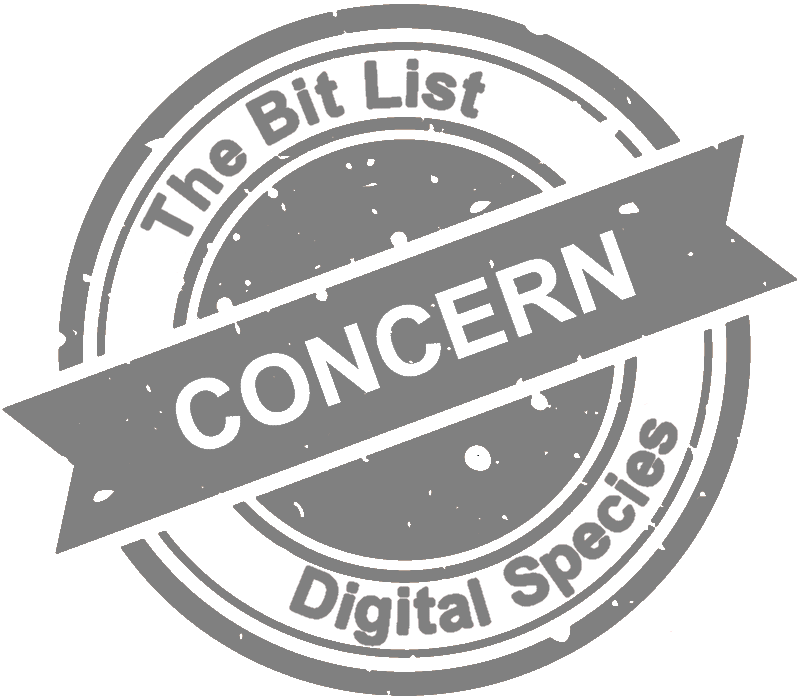
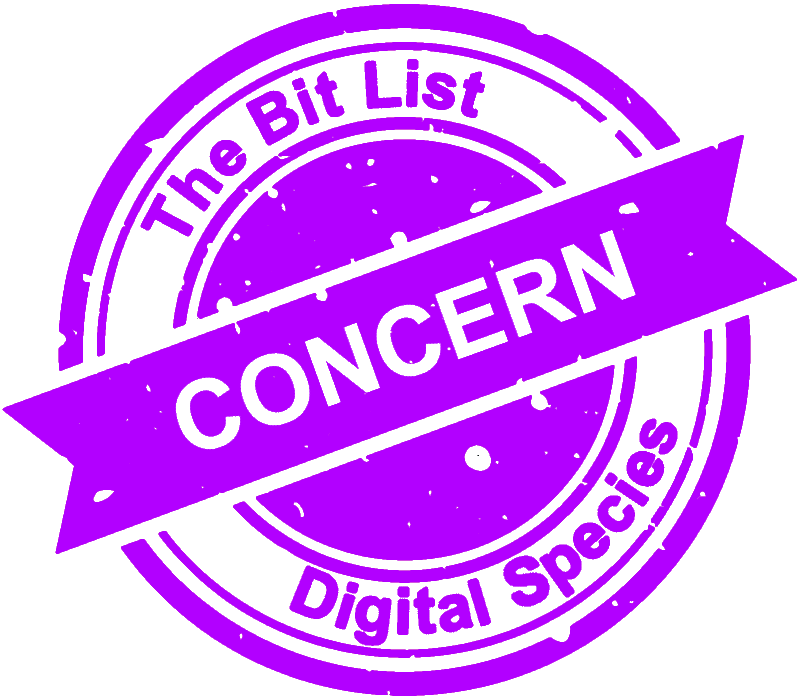
Fix colours and ordering of classifications

diff --git a/content/classification/concern.en.md b/content/classification/concern.en.md
@@ -6,5 +6,5 @@ description: Digital materials are listed as of Concern when an active member of
   concern has not yet been assessed by the BitList jury.  They will be assessed
   for inclusion in the subsequent year.
 image: /images/status/concern.png
-weight: 50
+weight: 100
 ---
